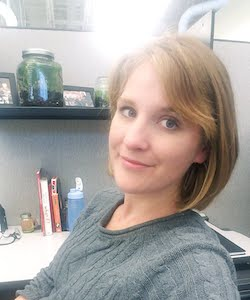
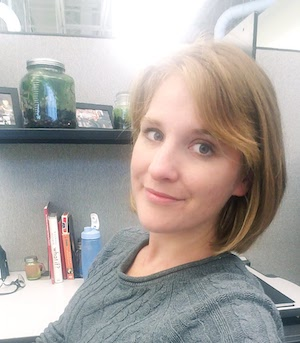
Resized photo and edited bio

diff --git a/index.html b/index.html
@@ -59,10 +59,10 @@
         <div class="container px-4 px-lg-5">
             <div class="row gx-4 gx-lg-5 justify-content-center">
                 <div class="col-lg-8 col-sm-12">
-                    <img class=col-lg-8 col-sm-12 src="assets/img/Me.jpg" alt="..." /><br/><br/><br/>
-                    <h2 class="text-white mb-4">Positioned for Success</h2>
+                    <img style="height:300px; width:343px;" class=col-lg-8 col-sm-12 src="assets/img/me.jpg" alt="..." /><br/><br/><br/>
+                    <h2 class="text-white mb-4">Doing Things Differently</h2>
                     <p class="text-white-50">
-                        I have a passion for doing things differently.
+                        I am a software engineer with a background in the sciences. I love to think outside of the box and solve complex puzzles. Always looking for the next challenge and how to make things better.
 
                     </p>
                 </div>
